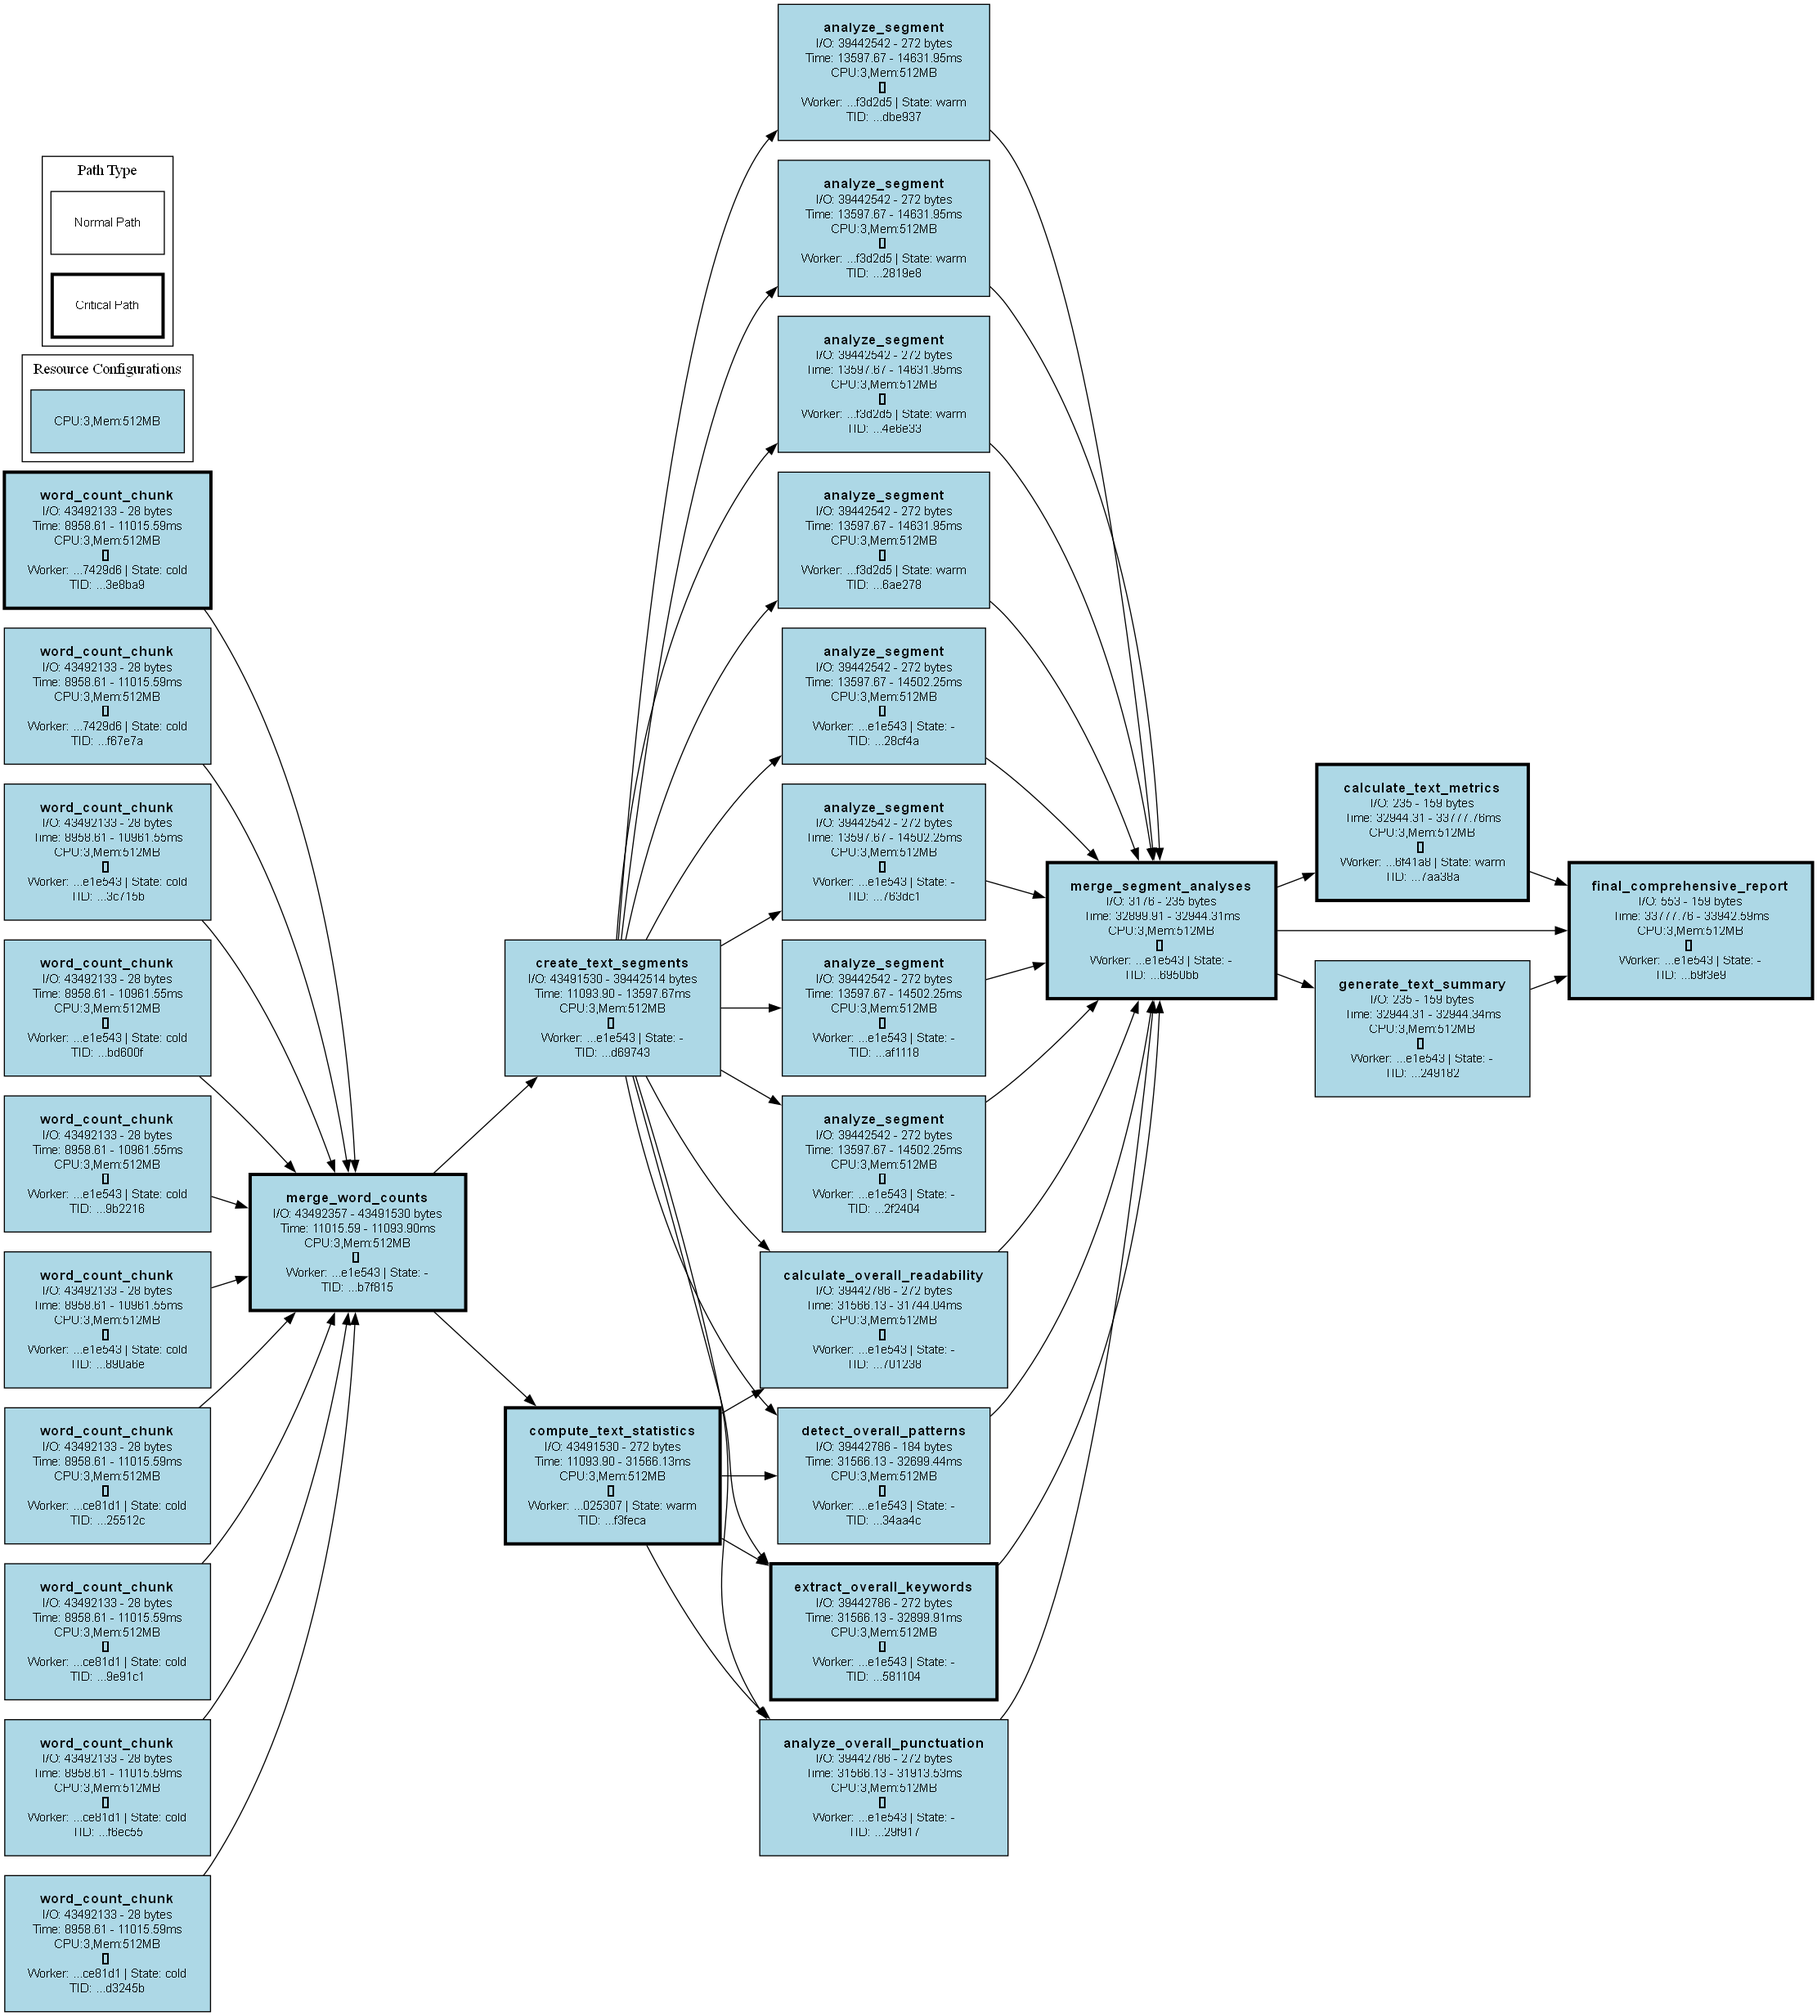
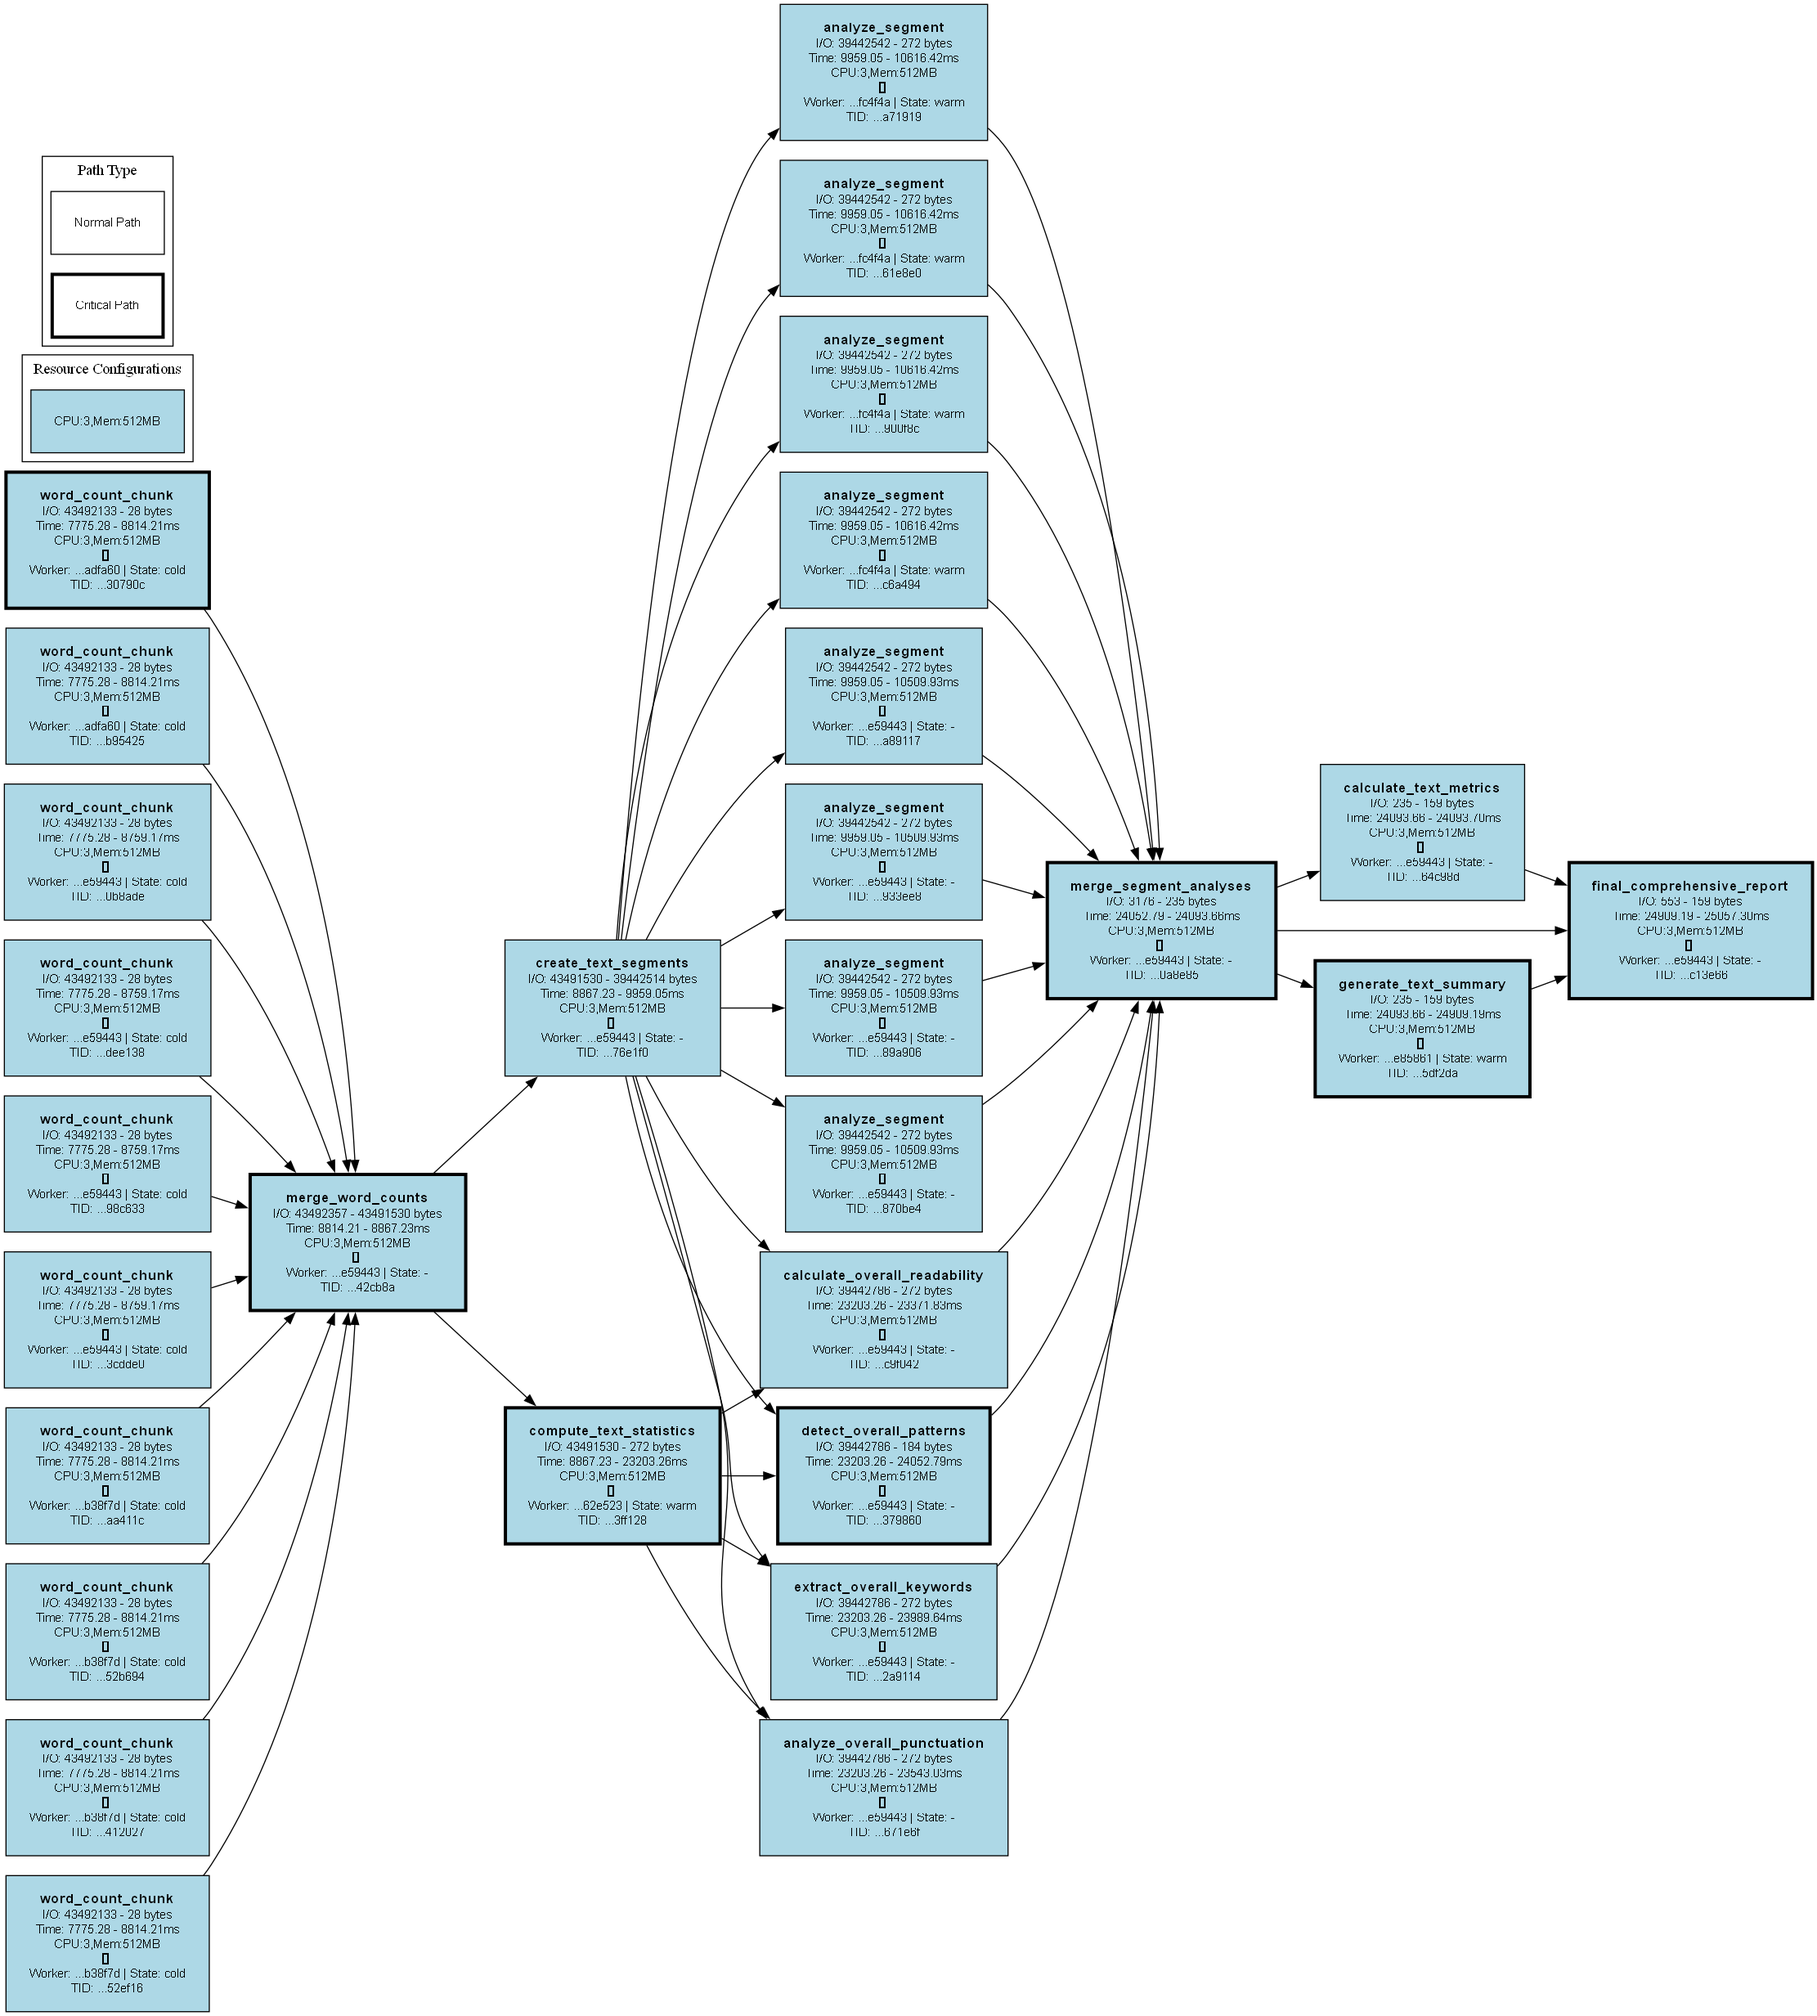
remove lock and slightly reduce predictions resources speedup

diff --git a/src/workers/worker.py b/src/workers/worker.py
@@ -101,41 +101,40 @@ class Worker(ABC):
                         upstream_tasks_without_cached_results.append(t)
 
                 # Always fetch hardcoded inputs that are not present locally
-                async with subdag.cached_hardcoded_data_lock: # to avoid 2 concurrent tasks fetching the same data twice (one should wait for the other, then use that if possible)
-                    for node in subdag._all_nodes.values():
-                        # {subdag.cached_hardcoded_data_map} stored hardcoded data only once, to avoid repetition (tasks store references to the storage_ids until they need to be executed; then they replace that by the cached value or grab it from storage and then cache it)
-                        non_repeated_storage_ids = { arg.storage_id for arg in node.func_args if isinstance(arg, dag.HardcodedDependencyId) and arg.storage_id not in subdag.cached_hardcoded_data_map }
-                        non_repeated_storage_ids |= { arg.storage_id for arg in node.func_kwargs.values() if isinstance(arg, dag.HardcodedDependencyId) and arg.storage_id not in subdag.cached_hardcoded_data_map }
+                for node in subdag._all_nodes.values():
+                    # {subdag.cached_hardcoded_data_map} stored hardcoded data only once, to avoid repetition (tasks store references to the storage_ids until they need to be executed; then they replace that by the cached value or grab it from storage and then cache it)
+                    non_repeated_storage_ids = { arg.storage_id for arg in node.func_args if isinstance(arg, dag.HardcodedDependencyId) and arg.storage_id not in subdag.cached_hardcoded_data_map }
+                    non_repeated_storage_ids |= { arg.storage_id for arg in node.func_kwargs.values() if isinstance(arg, dag.HardcodedDependencyId) and arg.storage_id not in subdag.cached_hardcoded_data_map }
 
-                        # Fetch new hardcoded results IF NEEDED
-                        for storage_id in non_repeated_storage_ids:
-                            self.log(current_task.id.get_full_id(), f"Fetching hardcoded dependency: {storage_id}")
+                    # Fetch new hardcoded results IF NEEDED
+                    for storage_id in non_repeated_storage_ids:
+                        self.log(current_task.id.get_full_id(), f"Fetching hardcoded dependency: {storage_id}")
 
-                            data_download_time = Timer()
-                            data_serialized = await self.intermediate_storage.get(storage_id)
-                            data_download_time = data_download_time.stop()
-                            if data_serialized is None: raise TaskOutputNotAvailableException(storage_id)
-                            data = cloudpickle.loads(data_serialized)
-                            subdag.cached_hardcoded_data_map[storage_id] = data
-                            
-                            current_task.metrics.input_metrics.input_download_metrics[storage_id] = TaskInputDownloadMetrics(
-                                serialized_size_bytes=calculate_data_structure_size_bytes(data_serialized),
-                                deserialized_size_bytes=calculate_data_structure_size_bytes(data),
-                                time_ms=data_download_time
-                            )
+                        data_download_time = Timer()
+                        data_serialized = await self.intermediate_storage.get(storage_id)
+                        data_download_time = data_download_time.stop()
+                        if data_serialized is None: raise TaskOutputNotAvailableException(storage_id)
+                        data = cloudpickle.loads(data_serialized)
+                        subdag.cached_hardcoded_data_map[storage_id] = data
+                        
+                        current_task.metrics.input_metrics.input_download_metrics[storage_id] = TaskInputDownloadMetrics(
+                            serialized_size_bytes=calculate_data_structure_size_bytes(data_serialized),
+                            deserialized_size_bytes=calculate_data_structure_size_bytes(data),
+                            time_ms=data_download_time
+                        )
 
-                        new_func_args = [
-                            subdag.cached_hardcoded_data_map[arg.storage_id] if isinstance(arg, dag.HardcodedDependencyId) else arg
-                            for arg in node.func_args
-                        ]
+                    new_func_args = [
+                        subdag.cached_hardcoded_data_map[arg.storage_id] if isinstance(arg, dag.HardcodedDependencyId) else arg
+                        for arg in node.func_args
+                    ]
 
-                        new_func_kwargs = {
-                            key: subdag.cached_hardcoded_data_map[arg.storage_id] if isinstance(arg, dag.HardcodedDependencyId) else arg
-                            for key, arg in node.func_kwargs.items()
-                        }
+                    new_func_kwargs = {
+                        key: subdag.cached_hardcoded_data_map[arg.storage_id] if isinstance(arg, dag.HardcodedDependencyId) else arg
+                        for key, arg in node.func_kwargs.items()
+                    }
 
-                        node.func_args = tuple(new_func_args)
-                        node.func_kwargs = new_func_kwargs
+                    node.func_args = tuple(new_func_args)
+                    node.func_kwargs = new_func_kwargs
 
                 res = await self.planner.wel_override_handle_inputs(self.planner, self.intermediate_storage, current_task, subdag, upstream_tasks_without_cached_results, self.my_resource_configuration, task_dependencies)
                 assert res is not None

diff --git a/src/planning/predictions/predictions_provider.py b/src/planning/predictions/predictions_provider.py
@@ -204,7 +204,7 @@ class PredictionsProvider:
             res = abs(base_time) ** scaling_exponent
         else:
             baseline_normalized_samples = [
-                (speed * (BASELINE_MEMORY_MB / memory_mb) ** 0.5, total_bytes)
+                (speed * (BASELINE_MEMORY_MB / memory_mb) ** 0.4, total_bytes)
                 for speed, total_bytes, cpus, memory_mb in cached_data
             ]
             baseline_normalized_samples, _debug_samples = self._select_related_samples(data_size_bytes, baseline_normalized_samples, sla)
@@ -218,7 +218,7 @@ class PredictionsProvider:
                 raise ValueError(f"No data available for {type} or invalid baseline speed data")
             
             # Scale from baseline to target and apply non-linear scaling with protection
-            actual_speed = baseline_speed_bytes_per_ms * (resource_config.memory_mb / BASELINE_MEMORY_MB) ** 0.5
+            actual_speed = baseline_speed_bytes_per_ms * (resource_config.memory_mb / BASELINE_MEMORY_MB) ** 0.4
             base_time = data_size_bytes / actual_speed
             res = abs(base_time) ** scaling_exponent
 
@@ -254,14 +254,14 @@ class PredictionsProvider:
         else:
             # Insufficient exact matches - use memory scaling model with baseline normalization
             # First, normalize all samples to baseline memory configuration
-            baseline_normalized_samples = [startup_time * (BASELINE_MEMORY_MB / memory_mb) ** 0.5 for startup_time, cpus, memory_mb in samples]
+            baseline_normalized_samples = [startup_time * (BASELINE_MEMORY_MB / memory_mb) ** 0.4 for startup_time, cpus, memory_mb in samples]
             if sla == "average":  startup_time = np.average(baseline_normalized_samples)
             else: startup_time = np.percentile(baseline_normalized_samples, sla.value)
             
             if startup_time <= 0: raise ValueError(f"No data available for predicting '{state}' worker startup time")
             
             # Scale from baseline to target resource configuration
-            actual_startup_time = startup_time * (resource_config.memory_mb / BASELINE_MEMORY_MB) ** 0.5
+            actual_startup_time = startup_time * (resource_config.memory_mb / BASELINE_MEMORY_MB) ** 0.4
             res = actual_startup_time
         
         self._cached_prediction_startup_times[prediction_key] = res # type: ignore
@@ -334,7 +334,7 @@ class PredictionsProvider:
             # Insufficient exact matches - use memory scaling model with baseline normalization
             # Normalize samples to baseline memory configuration and select by input size
             samples_w_normalized_time_per_byte = [
-                (time_per_byte * (memory_mb / BASELINE_MEMORY_MB) ** 0.5, total_input_size_bytes)
+                (time_per_byte * (memory_mb / BASELINE_MEMORY_MB) ** 0.4, total_input_size_bytes)
                 for time_per_byte, cpus, memory_mb, total_input_size_bytes in all_samples
             ]
             
@@ -349,7 +349,7 @@ class PredictionsProvider:
                 raise ValueError(f"No data available for function {function_name}")
             # Apply sublinear scaling to input size and memory scaling
             res = (baseline_ms_per_byte * (input_size ** size_scaling_factor) * 
-                   (BASELINE_MEMORY_MB / resource_config.memory_mb) ** 0.5)
+                   (BASELINE_MEMORY_MB / resource_config.memory_mb) ** 0.4)
         
         self._cached_prediction_execution_times[prediction_key] = res # type: ignore
         return res # type: ignore

diff --git a/src/dag/dag.py b/src/dag/dag.py
@@ -38,7 +38,6 @@ class SubDAG(GenericDAG):
         self._all_nodes, self.sink_node = self._find_all_nodes_from_root(self.root_node)
         self.master_dag_structure_hash = master_dag_structure_hash
         self.master_dag_id = master_dag_id
-        self.cached_hardcoded_data_lock: asyncio.Lock = asyncio.Lock()
         self.cached_hardcoded_data_map: dict[str, Any] = {} # storage_id -> obj_data
 
     @staticmethod

diff --git a/TODO.md b/TODO.md
@@ -1,15 +1,8 @@
-- some workflows don't even load
-    cause: ??
-        run_experiments is killing containers too early, not letting them flush metrics ??
-            solution: sleep before kill()
-
-- rerun
-    check if predictions are better now
-
-- errors on metrics collected
-    - predictions for execution time, download/upload time are 0
-        cause: ??
-    - predictions are VERY OFF!
+- some workflows don't even load: recheck with streamlit locally
+    - check if predictions are better now
+        - errors on metrics collected
+            - predictions for execution time, download/upload time are 0
+            - predictions are VERY OFF!
 
 - Predictions: reduce the influence of better resources A LOT more attenuated
     on download times and execution times
